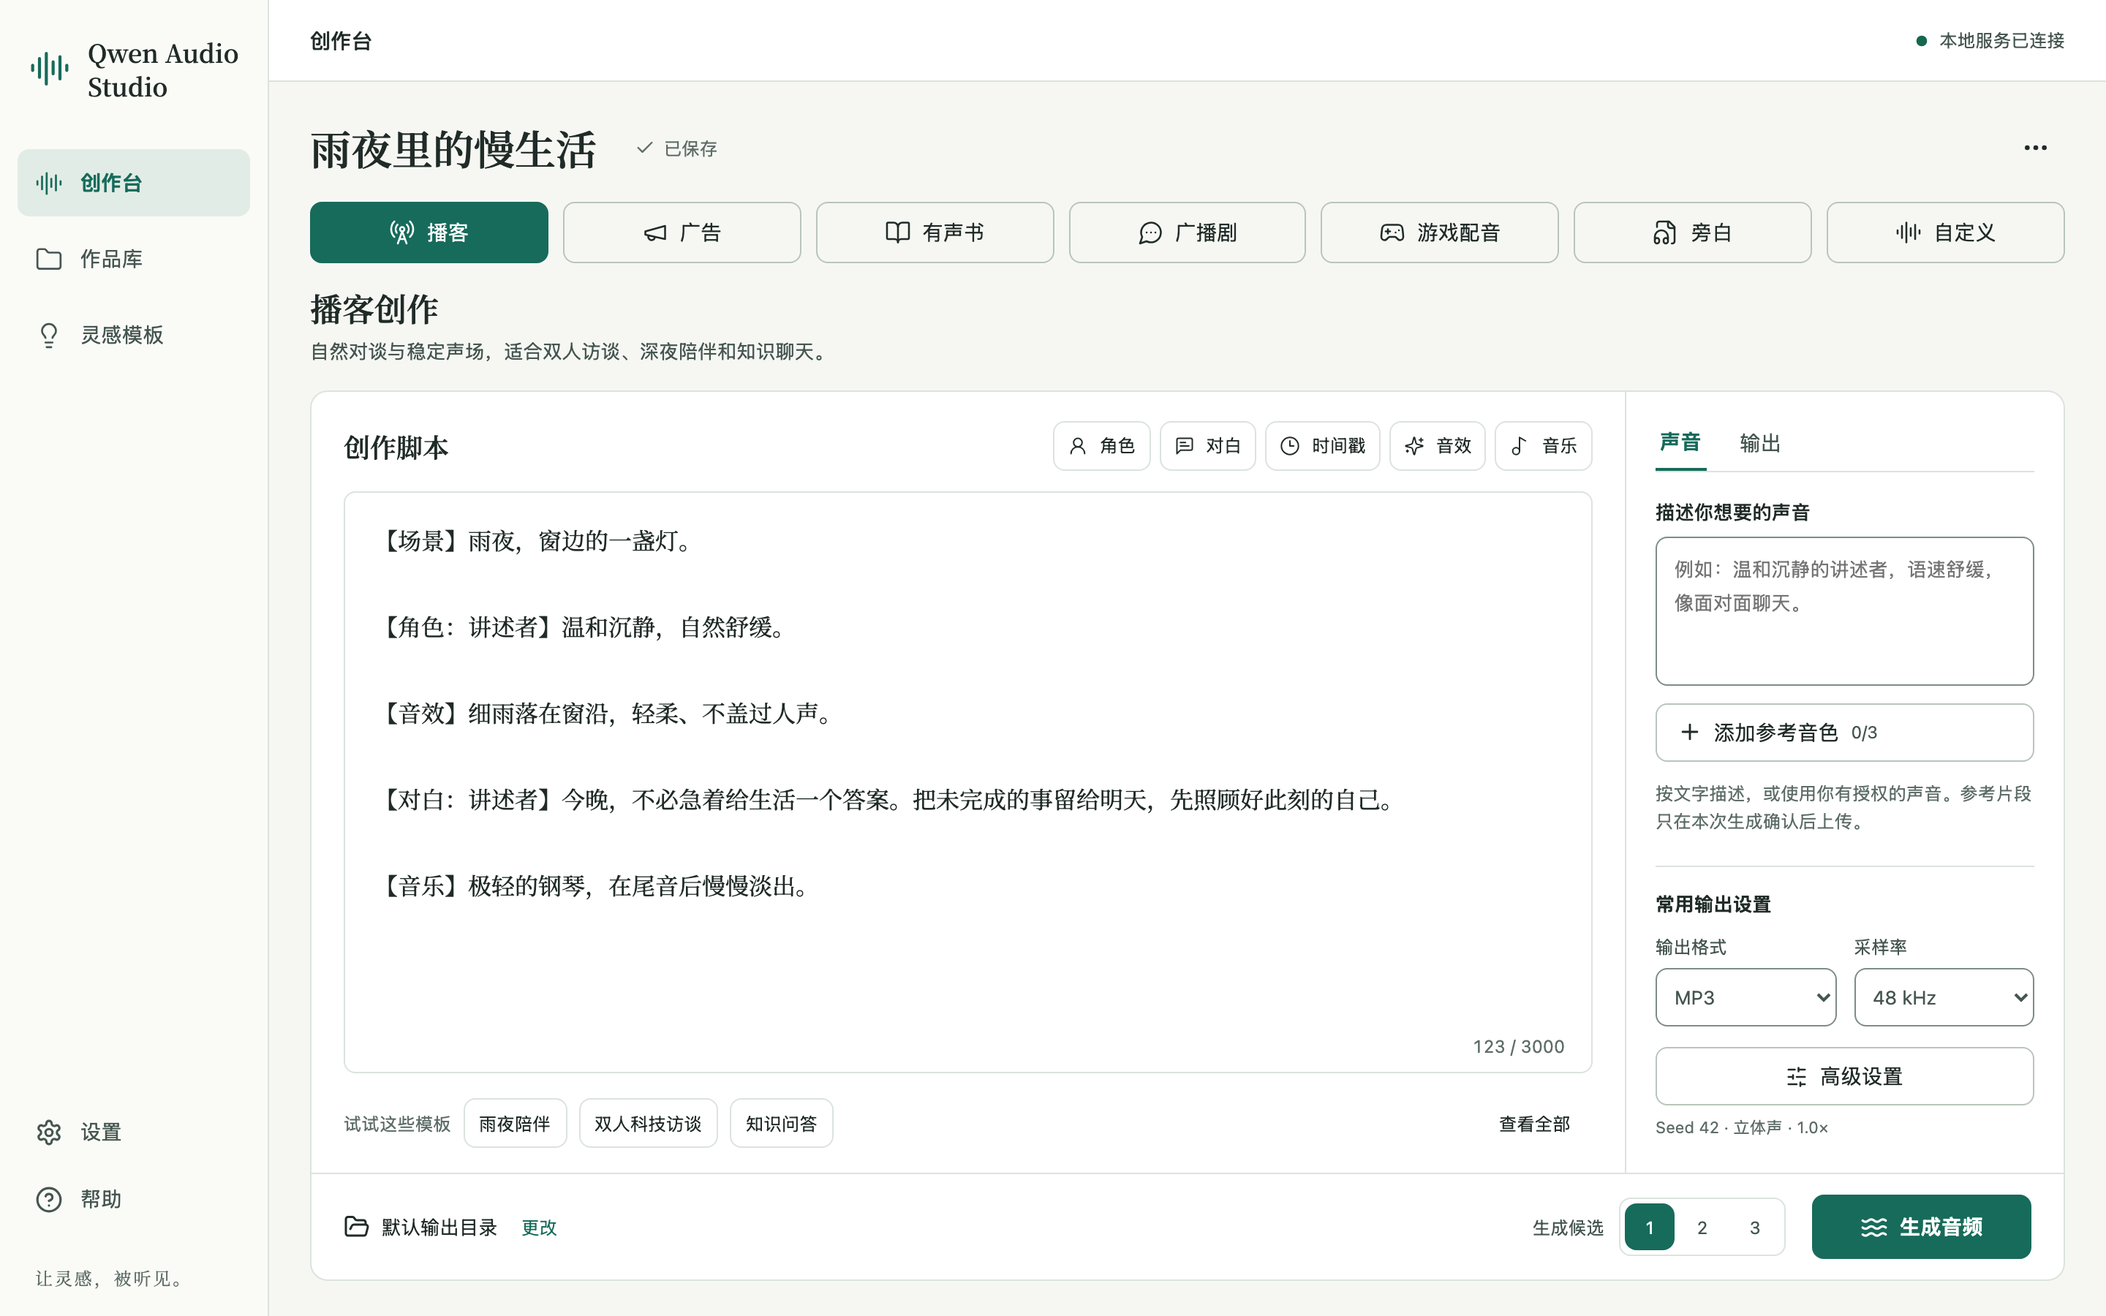
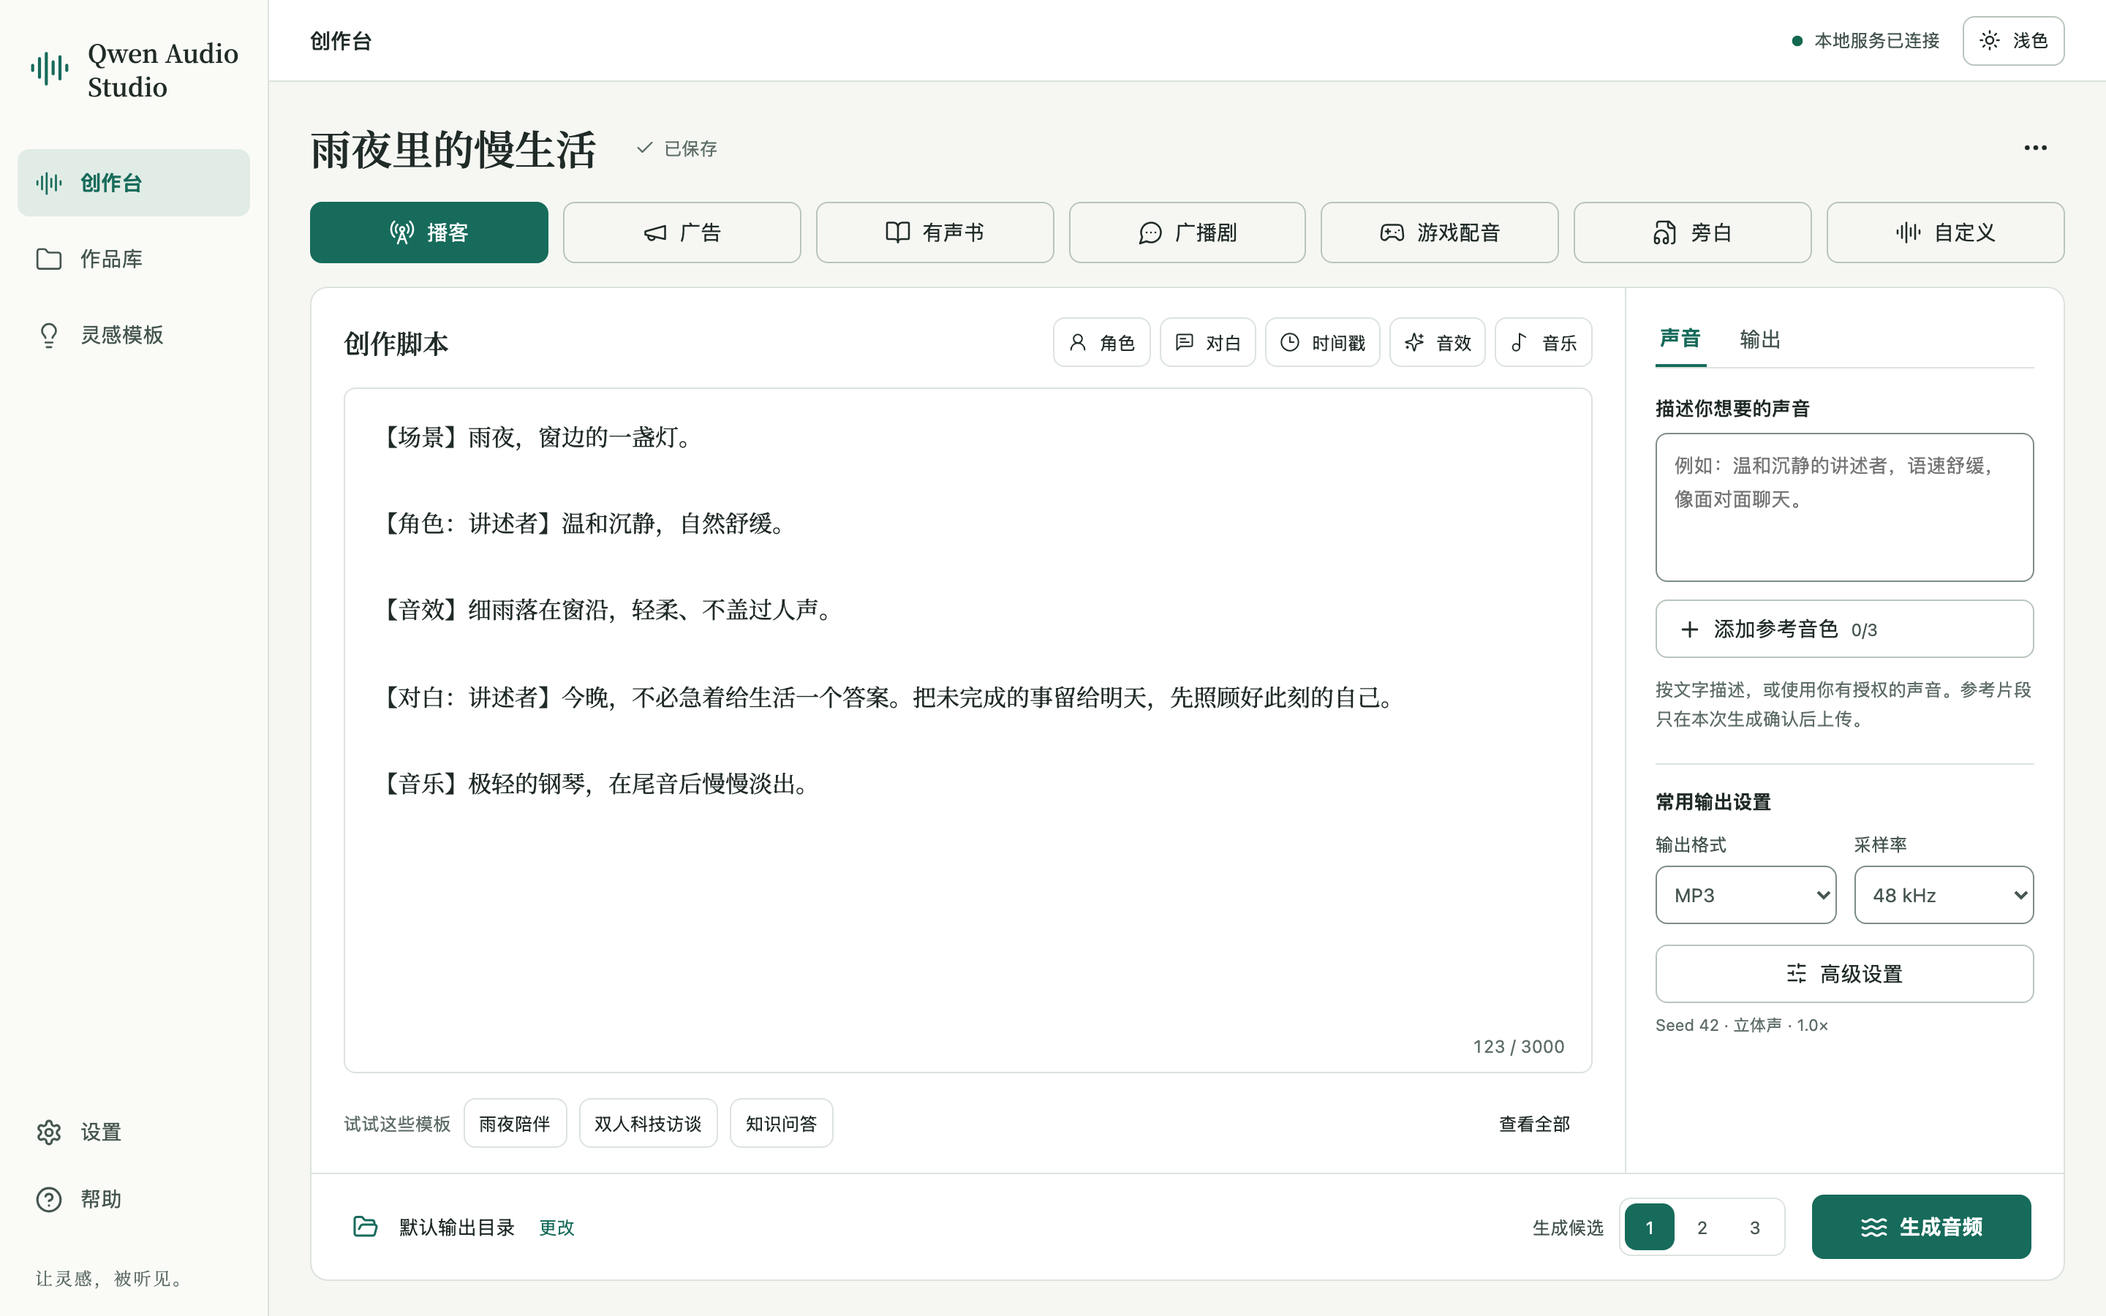
fix: make creation single-screen and expose persistent theme toggle

diff --git a/frontend/src/features/create/CreateWorkbench.tsx b/frontend/src/features/create/CreateWorkbench.tsx
@@ -23,7 +23,7 @@ import { insertTag, type PromptTag } from "./editor";
 import { GenerationInspector } from "./GenerationInspector";
 import { ModeSelector } from "./ModeSelector";
 import { PromptTagToolbar } from "./PromptTagToolbar";
-import { inspirationTemplates, modeProfiles } from "./templates";
+import { inspirationTemplates } from "./templates";
 import type { ProjectDraftController } from "./useProjectDraft";
 import { VoiceDrawer, type VoiceReference } from "../voices/VoiceDrawer";
 import { TemplatePicker } from "../templates/TemplatePicker";
@@ -132,7 +132,6 @@ export default function CreateWorkbench({
   const visibleTemplates = inspirationTemplates
     .filter((t) => t.mode === form.mode)
     .slice(0, 3);
-  const profile = modeProfiles[form.mode];
   const applyTag = (tag: PromptTag) => {
     const el = editorRef.current;
     const next = insertTag(
@@ -286,7 +285,7 @@ export default function CreateWorkbench({
       </div>
       {tab === "voice" ? (
         <div className="inspector-section">
-          <label>
+          {form.referenceBindings.length===0?<label>
             描述你想要的声音
             <textarea
               aria-label="声音描述"
@@ -295,8 +294,8 @@ export default function CreateWorkbench({
               placeholder="例如：温和沉静的讲述者，语速舒缓，像面对面聊天。"
               onChange={(e) => setVoiceText(e.target.value)}
             />
-          </label>
-          {voiceText.trim() ? (
+          </label>:null}
+          {voiceText.trim() && form.referenceBindings.length===0 ? (
             <button
               onClick={() => {
                 edited.current = true;
@@ -494,7 +493,7 @@ export default function CreateWorkbench({
         </label>
         <span className="save-status" data-testid="save-state">
           <Check size={14} />
-          {SAVE_STATE_LABELS[draft?.state || "clean"]}
+          {draft && !draft.projectId && draft.state==='clean'?'未保存':SAVE_STATE_LABELS[draft?.state || "clean"]}
         </span>
         <div className="draft-menu">
           <button
@@ -515,7 +514,7 @@ export default function CreateWorkbench({
                   }}
                 >
                   <Plus size={16} />
-                  新建空白草稿
+                  空白草稿
                 </button>
               ) : null}
               <button
@@ -549,12 +548,6 @@ export default function CreateWorkbench({
         </div>
       ) : null}
       <ModeSelector value={form.mode} onChange={changeMode} />
-      <section className="mode-context" aria-live="polite">
-        <h2>{profile.title}</h2>
-        <p>
-          {profile.description}，{profile.detail.split("，")[0]}。
-        </p>
-      </section>
       <div className="workspace-frame">
         <div className="workbench-grid">
           <section className="prompt-studio">

diff --git a/frontend/e2e/compact-ui.spec.ts b/frontend/e2e/compact-ui.spec.ts
@@ -1,0 +1,23 @@
+import {test,expect} from '@playwright/test';
+test('创作台一屏、顶栏明暗持久化、Finder入口与高级参数键盘操作',async({page,request})=>{
+ const session=await(await request.get('/api/session')).json();
+ const headers={'X-Qwen-Studio-CSRF':session.csrf_token};
+ const settings=await(await request.get('/api/settings')).json();
+ await request.patch('/api/settings',{headers,data:{expected_revision:settings.revision,theme:'light'}});
+ const project=await(await request.post('/api/projects',{headers,data:{name:'一屏布局验收',mode:'audiobook',prompt:'【对白：旁白】一段值得被听见的故事。'}})).json();
+ await page.setViewportSize({width:1280,height:720});await page.goto('/?project='+project.id);
+ await expect(page.getByLabel('场景提示词')).toBeVisible();
+ await expect(page.locator('.mode-context')).toHaveCount(0);
+ await expect(page.getByText('新建项目',{exact:true})).toHaveCount(0);
+ const sizes=await page.evaluate(()=>({page:document.documentElement.scrollHeight,height:innerHeight,panel:document.querySelector('.workbench-inspector')!.clientHeight,content:document.querySelector('.workbench-inspector')!.scrollHeight}));
+ expect(sizes.page).toBe(sizes.height);expect(sizes.content).toBeLessThanOrEqual(sizes.panel+1);
+ for(const name of ['高级设置','生成音频']){const b=await page.getByRole('button',{name,exact:true}).boundingBox();expect(b!.y+b!.height).toBeLessThanOrEqual(720)}
+ await page.getByRole('button',{name:'切换为深色模式'}).click();await expect(page.locator('html')).toHaveAttribute('data-theme','dark');await page.reload();await expect(page.locator('html')).toHaveAttribute('data-theme','dark');
+ await page.getByRole('button',{name:'切换为浅色模式'}).click();await expect(page.locator('html')).toHaveAttribute('data-theme','light');
+ let revealed=false;await page.route('**/api/directories/*/reveal',async route=>{revealed=route.request().method()==='POST';await route.fulfill({status:204})});
+ await page.getByRole('button',{name:'在Finder中打开输出文件夹'}).click();await expect.poll(()=>revealed).toBe(true);
+ const advanced=page.getByRole('button',{name:'高级设置',exact:true});await advanced.click();const dialog=page.getByRole('dialog',{name:'高级输出设置'});await dialog.getByLabel('输出格式').selectOption('mp3');
+ const box=await dialog.locator('.modal-body').evaluate(e=>({visible:e.clientHeight,total:e.scrollHeight}));expect(box.total).toBeLessThanOrEqual(box.visible+1);
+ for(let i=0;i<18;i++){await page.keyboard.press('Tab');expect(await dialog.evaluate(e=>e.contains(document.activeElement))).toBe(true)}
+ await page.keyboard.press('Escape');await expect(dialog).toHaveCount(0);await expect(advanced).toBeFocused();
+});

diff --git a/frontend/src/components/shell/ThemeToggle.tsx b/frontend/src/components/shell/ThemeToggle.tsx
@@ -1,0 +1,12 @@
+import {useEffect,useRef,useState} from 'react';
+import {Sun,Moon,Loader2,X} from 'lucide-react';
+import {getSettings,patchSettings} from '../../api';
+import {applyTheme} from '../../theme';
+export function ThemeToggle(){
+ const [dark,setDark]=useState(document.documentElement.dataset.theme==='dark');
+ const [busy,setBusy]=useState(false),[error,setError]=useState('');
+ const locked=useRef(false);
+ useEffect(()=>{const observer=new MutationObserver(()=>setDark(document.documentElement.dataset.theme==='dark'));observer.observe(document.documentElement,{attributes:true,attributeFilter:['data-theme']});return()=>observer.disconnect()},[]);
+ const toggle=async()=>{if(locked.current)return;locked.current=true;setBusy(true);setError('');const theme=dark?'light':'dark';try{const current=await getSettings();const updated=await patchSettings({expected_revision:current.revision,theme});applyTheme(theme);setDark(theme==='dark');window.dispatchEvent(new CustomEvent('qwen-theme-updated',{detail:updated}))}catch(e){setError(e instanceof Error?e.message:'主题保存失败，请重试')}finally{setBusy(false);locked.current=false}};
+ return <div className="theme-control"><button className="theme-toggle" aria-label={dark?'切换为浅色模式':'切换为深色模式'} title={dark?'切换为浅色模式':'切换为深色模式'} disabled={busy} onClick={()=>void toggle()}>{busy?<Loader2 size={15} className="spin"/>:dark?<Moon size={15}/>:<Sun size={15}/>}<span>{dark?'深色':'浅色'}</span></button>{error?<div className="theme-notice" role="alert"><span>{error}</span><button className="icon-button" aria-label="关闭主题提示" onClick={()=>setError('')}><X size={14}/></button></div>:null}</div>;
+}

diff --git a/frontend/src/components/shell/ThemeToggle.test.tsx b/frontend/src/components/shell/ThemeToggle.test.tsx
@@ -1,0 +1,23 @@
+import {render,screen,waitFor} from '@testing-library/react';
+import userEvent from '@testing-library/user-event';
+import {beforeEach,it,expect,vi} from 'vitest';
+import {MemoryRouter} from 'react-router-dom';
+import {ProjectHeader} from './ProjectHeader';
+import {getSettings,patchSettings} from '../../api';
+vi.mock('../../api',()=>({getSettings:vi.fn(),patchSettings:vi.fn()}));
+beforeEach(()=>{vi.clearAllMocks();document.documentElement.dataset.theme='light';vi.mocked(getSettings).mockResolvedValue({revision:3,theme:'light'} as any)});
+it('switches theme from the header and persists it',async()=>{
+ vi.mocked(patchSettings).mockResolvedValue({revision:4,theme:'dark'} as any);
+ render(<MemoryRouter><ProjectHeader connection="connected"/></MemoryRouter>);
+ await userEvent.click(screen.getByRole('button',{name:'切换为深色模式'}));
+ await waitFor(()=>expect(document.documentElement.dataset.theme).toBe('dark'));
+ expect(patchSettings).toHaveBeenCalledWith({expected_revision:3,theme:'dark'});
+ expect(screen.getByRole('button',{name:'切换为浅色模式'})).toBeVisible();
+});
+it('retains the current theme when persistence fails',async()=>{
+ vi.mocked(patchSettings).mockRejectedValue(new Error('设置暂时无法保存'));
+ render(<MemoryRouter><ProjectHeader connection="connected"/></MemoryRouter>);
+ await userEvent.click(screen.getByRole('button',{name:'切换为深色模式'}));
+ expect(await screen.findByRole('alert')).toHaveTextContent('设置暂时无法保存');
+ expect(document.documentElement.dataset.theme).toBe('light');
+});

diff --git a/frontend/src/styles/responsive-fixes.css b/frontend/src/styles/responsive-fixes.css
@@ -1,4 +1,13 @@
 /* Compact, aligned controls remain visible on a small laptop and a phone. */
+.header-actions { display:flex; align-items:center; gap:16px; }
+.theme-control { position:relative; }
+.theme-toggle { min-height:34px; height:34px; padding:5px 10px; font-size:12px; background:transparent; }
+.theme-notice { position:absolute; right:0; top:42px; z-index:40; width:260px; padding:10px; display:flex; align-items:center; gap:8px; border:1px solid var(--danger-line); border-radius:8px; background:var(--panel); color:var(--danger-text); box-shadow:var(--shadow); font-size:12px; }
+.output-directory-picker .directory-reveal { min-width:30px; min-height:34px; padding:5px; }
+.studio-modal .inspector-fields .range-field { grid-column:auto; }
+.studio-modal .mp3-quality { grid-template-columns:1fr 1fr; }
+.studio-modal .mp3-quality .subsection-label { grid-column:1/-1; }
+@media(max-width:500px){ .header-actions{gap:8px}.theme-toggle{padding:4px 7px;font-size:11px;min-height:30px;height:30px}.connection-status{font-size:10px} }
 .brand-lockup strong,.brand-lockup span { font-size: 17px; white-space: nowrap; line-height: 1.35; }
 @media (min-width:801px) and (max-width:1100px) { .brand-lockup strong,.brand-lockup span { font-size:14px; } }
 @media (min-width: 801px) and (max-height: 800px) {

diff --git a/frontend/src/features/create/CreateWorkbench.test.tsx b/frontend/src/features/create/CreateWorkbench.test.tsx
@@ -214,7 +214,8 @@ describe("creation workbench", () => {
     ];
     for (const item of cases) {
       await user.click(screen.getByRole("button", { name: item.label }));
-      expect(screen.getByRole("heading", { name: item.guide })).toBeVisible();
+      expect(screen.queryByRole("heading", { name: item.guide })).not.toBeInTheDocument();
+      expect(screen.getByRole('button',{name:item.label})).toHaveAttribute('aria-pressed','true');
       expect(screen.getByRole("button", { name: item.template })).toBeVisible();
       expect((editor as HTMLTextAreaElement).value).toContain(item.prompt);
     }
@@ -362,7 +363,7 @@ describe("creation workbench", () => {
       screen.queryByRole("button", { name: /新建/ }),
     ).not.toBeInTheDocument();
     await user.click(screen.getByRole("button", { name: "更多草稿操作" }));
-    await user.click(screen.getByRole("button", { name: /新建空白草稿/ }));
+    await user.click(screen.getByRole("button", { name: /空白草稿/ }));
     expect(onNewProject).toHaveBeenCalledTimes(1);
   });
 });

diff --git a/frontend/src/components/OutputDirectoryPicker.tsx b/frontend/src/components/OutputDirectoryPicker.tsx
@@ -16,6 +16,7 @@ export function OutputDirectoryPicker({
 }) {
   const [directory, setDirectory] = useState<Directory | null>(null),
     [busy, setBusy] = useState(false),
+    [revealing,setRevealing] = useState(false),
     [error, setError] = useState("");
   useEffect(() => {
     let active = true;
@@ -52,7 +53,7 @@ export function OutputDirectoryPicker({
   };
   return (
     <div className="output-directory-picker">
-      <FolderOpen size={18} />
+      <button className="directory-reveal" aria-label="在Finder中打开输出文件夹" title="在 Finder 中打开" disabled={!directory?.id||busy||revealing} onClick={async()=>{if(!directory)return;setRevealing(true);setError('');try{await request('/api/directories/'+encodeURIComponent(directory.id)+'/reveal','POST',{})}catch(e){setError(e instanceof Error?e.message:'无法打开文件夹')}finally{setRevealing(false)}}}><FolderOpen size={18}/></button>
       <span className="directory-name">
         {directory?.display_name || "默认文件夹"}
       </span>

diff --git a/frontend/e2e/studio-v2.spec.ts b/frontend/e2e/studio-v2.spec.ts
@@ -97,7 +97,7 @@ test("草稿自动保存、刷新恢复，七种模式切换保留手写内容",
   expect(saved.prompt).toBe(text);
   expect(saved.mode).toBe("podcast");
   expect(saved.revision).toBeGreaterThan(1);
-  await expect(page.getByRole("button", { name: "新建空白草稿" })).toHaveCount(
+  await expect(page.getByRole("button", { name: "空白草稿" })).toHaveCount(
     0,
   );
 });
@@ -150,7 +150,7 @@ test("设置分组、默认参数保存，并应用于新草稿", async ({ page,
   });
   await page.getByRole("link", { name: "创作台", exact: true }).click();
   await page.getByRole("button", { name: "更多草稿操作" }).click();
-  await page.getByRole("button", { name: "新建空白草稿" }).click();
+  await page.getByRole("button", { name: "空白草稿" }).click();
   await expect(page.getByLabel("场景提示词")).toHaveValue("");
   await expect(page.getByLabel("输出格式")).toHaveValue("mp3");
   await expect(page.getByLabel("采样率")).toHaveValue("24000");

diff --git a/frontend/src/features/settings/SettingsPage.tsx b/frontend/src/features/settings/SettingsPage.tsx
@@ -18,6 +18,7 @@ import {
   patchCredentials,
   patchSettings,
   type Diagnostics,
+  type SettingsPayload,
 } from "../../api";
 import type { CredentialStatus } from "../../types";
 import { applyTheme, normalizeTheme, type ThemePreference } from "../../theme";
@@ -72,6 +73,7 @@ export default function SettingsPage(props: {
   const [theme, setTheme] = useState<ThemePreference>("system");
   const [diagnostics, setDiagnostics] = useState<Diagnostics | null>(null);
   const [tab, setTab] = useState("connection");
+  useEffect(()=>{const sync=(event:Event)=>{const settings=(event as CustomEvent<SettingsPayload>).detail;if(settings?.revision){setSettings(settings);setTheme(normalizeTheme(settings.theme))}};window.addEventListener('qwen-theme-updated',sync);return()=>window.removeEventListener('qwen-theme-updated',sync)},[]);
 
   useEffect(() => {
     getSettings()

diff --git a/frontend/src/components/OutputDirectoryPicker.test.tsx b/frontend/src/components/OutputDirectoryPicker.test.tsx
@@ -1,0 +1,13 @@
+import {render,screen,waitFor} from '@testing-library/react';
+import userEvent from '@testing-library/user-event';
+import {it,expect,vi} from 'vitest';
+import {OutputDirectoryPicker} from './OutputDirectoryPicker';
+import {request} from '../api';
+vi.mock('../api',()=>({request:vi.fn()}));
+it('opens only the registered output directory in Finder',async()=>{
+ vi.mocked(request).mockResolvedValueOnce({id:'dir_example',display_name:'测试输出'}).mockResolvedValueOnce(undefined);
+ render(<OutputDirectoryPicker value={null} onChange={vi.fn()}/>);
+ await screen.findByText('测试输出');
+ await userEvent.click(screen.getByRole('button',{name:'在Finder中打开输出文件夹'}));
+ await waitFor(()=>expect(request).toHaveBeenLastCalledWith('/api/directories/dir_example/reveal','POST',{}));
+});

diff --git a/frontend/src/features/create/createV2.test.tsx b/frontend/src/features/create/createV2.test.tsx
@@ -3,6 +3,13 @@ import { describe, it, expect, vi } from "vitest";
 import CreateWorkbench from "./CreateWorkbench";
 
 describe("compact creation workflow", () => {
+  it('removes the redundant mode description and project-creation wording', () => {
+    render(<CreateWorkbench credentialsReady onSubmit={vi.fn()} onJobCreated={vi.fn()}/>);
+    expect(screen.queryByText('当前工作流')).not.toBeInTheDocument();
+    expect(screen.queryByRole('heading',{name:'播客创作'})).not.toBeInTheDocument();
+    expect(screen.queryByText('自然对谈与稳定声场',{exact:false})).not.toBeInTheDocument();
+    expect(screen.queryByText('新建项目')).not.toBeInTheDocument();
+  });
   it("keeps the new draft action behind a quiet menu and preserves a hand edit across modes", () => {
     render(
       <CreateWorkbench

diff --git a/frontend/src/features/create/CreatePage.test.tsx b/frontend/src/features/create/CreatePage.test.tsx
@@ -93,7 +93,7 @@ test("菜单创建空白草稿也带上当前保存的默认参数和目录", as
   const user = userEvent.setup();
   mount();
   await user.click(await screen.findByRole("button", { name: "更多草稿操作" }));
-  await user.click(screen.getByRole("button", { name: "新建空白草稿" }));
+  await user.click(screen.getByRole("button", { name: "空白草稿" }));
   await waitFor(() => expect(createProject).toHaveBeenCalledTimes(2));
   expect(vi.mocked(createProject).mock.calls[1][0]).toMatchObject({
     prompt: "",
